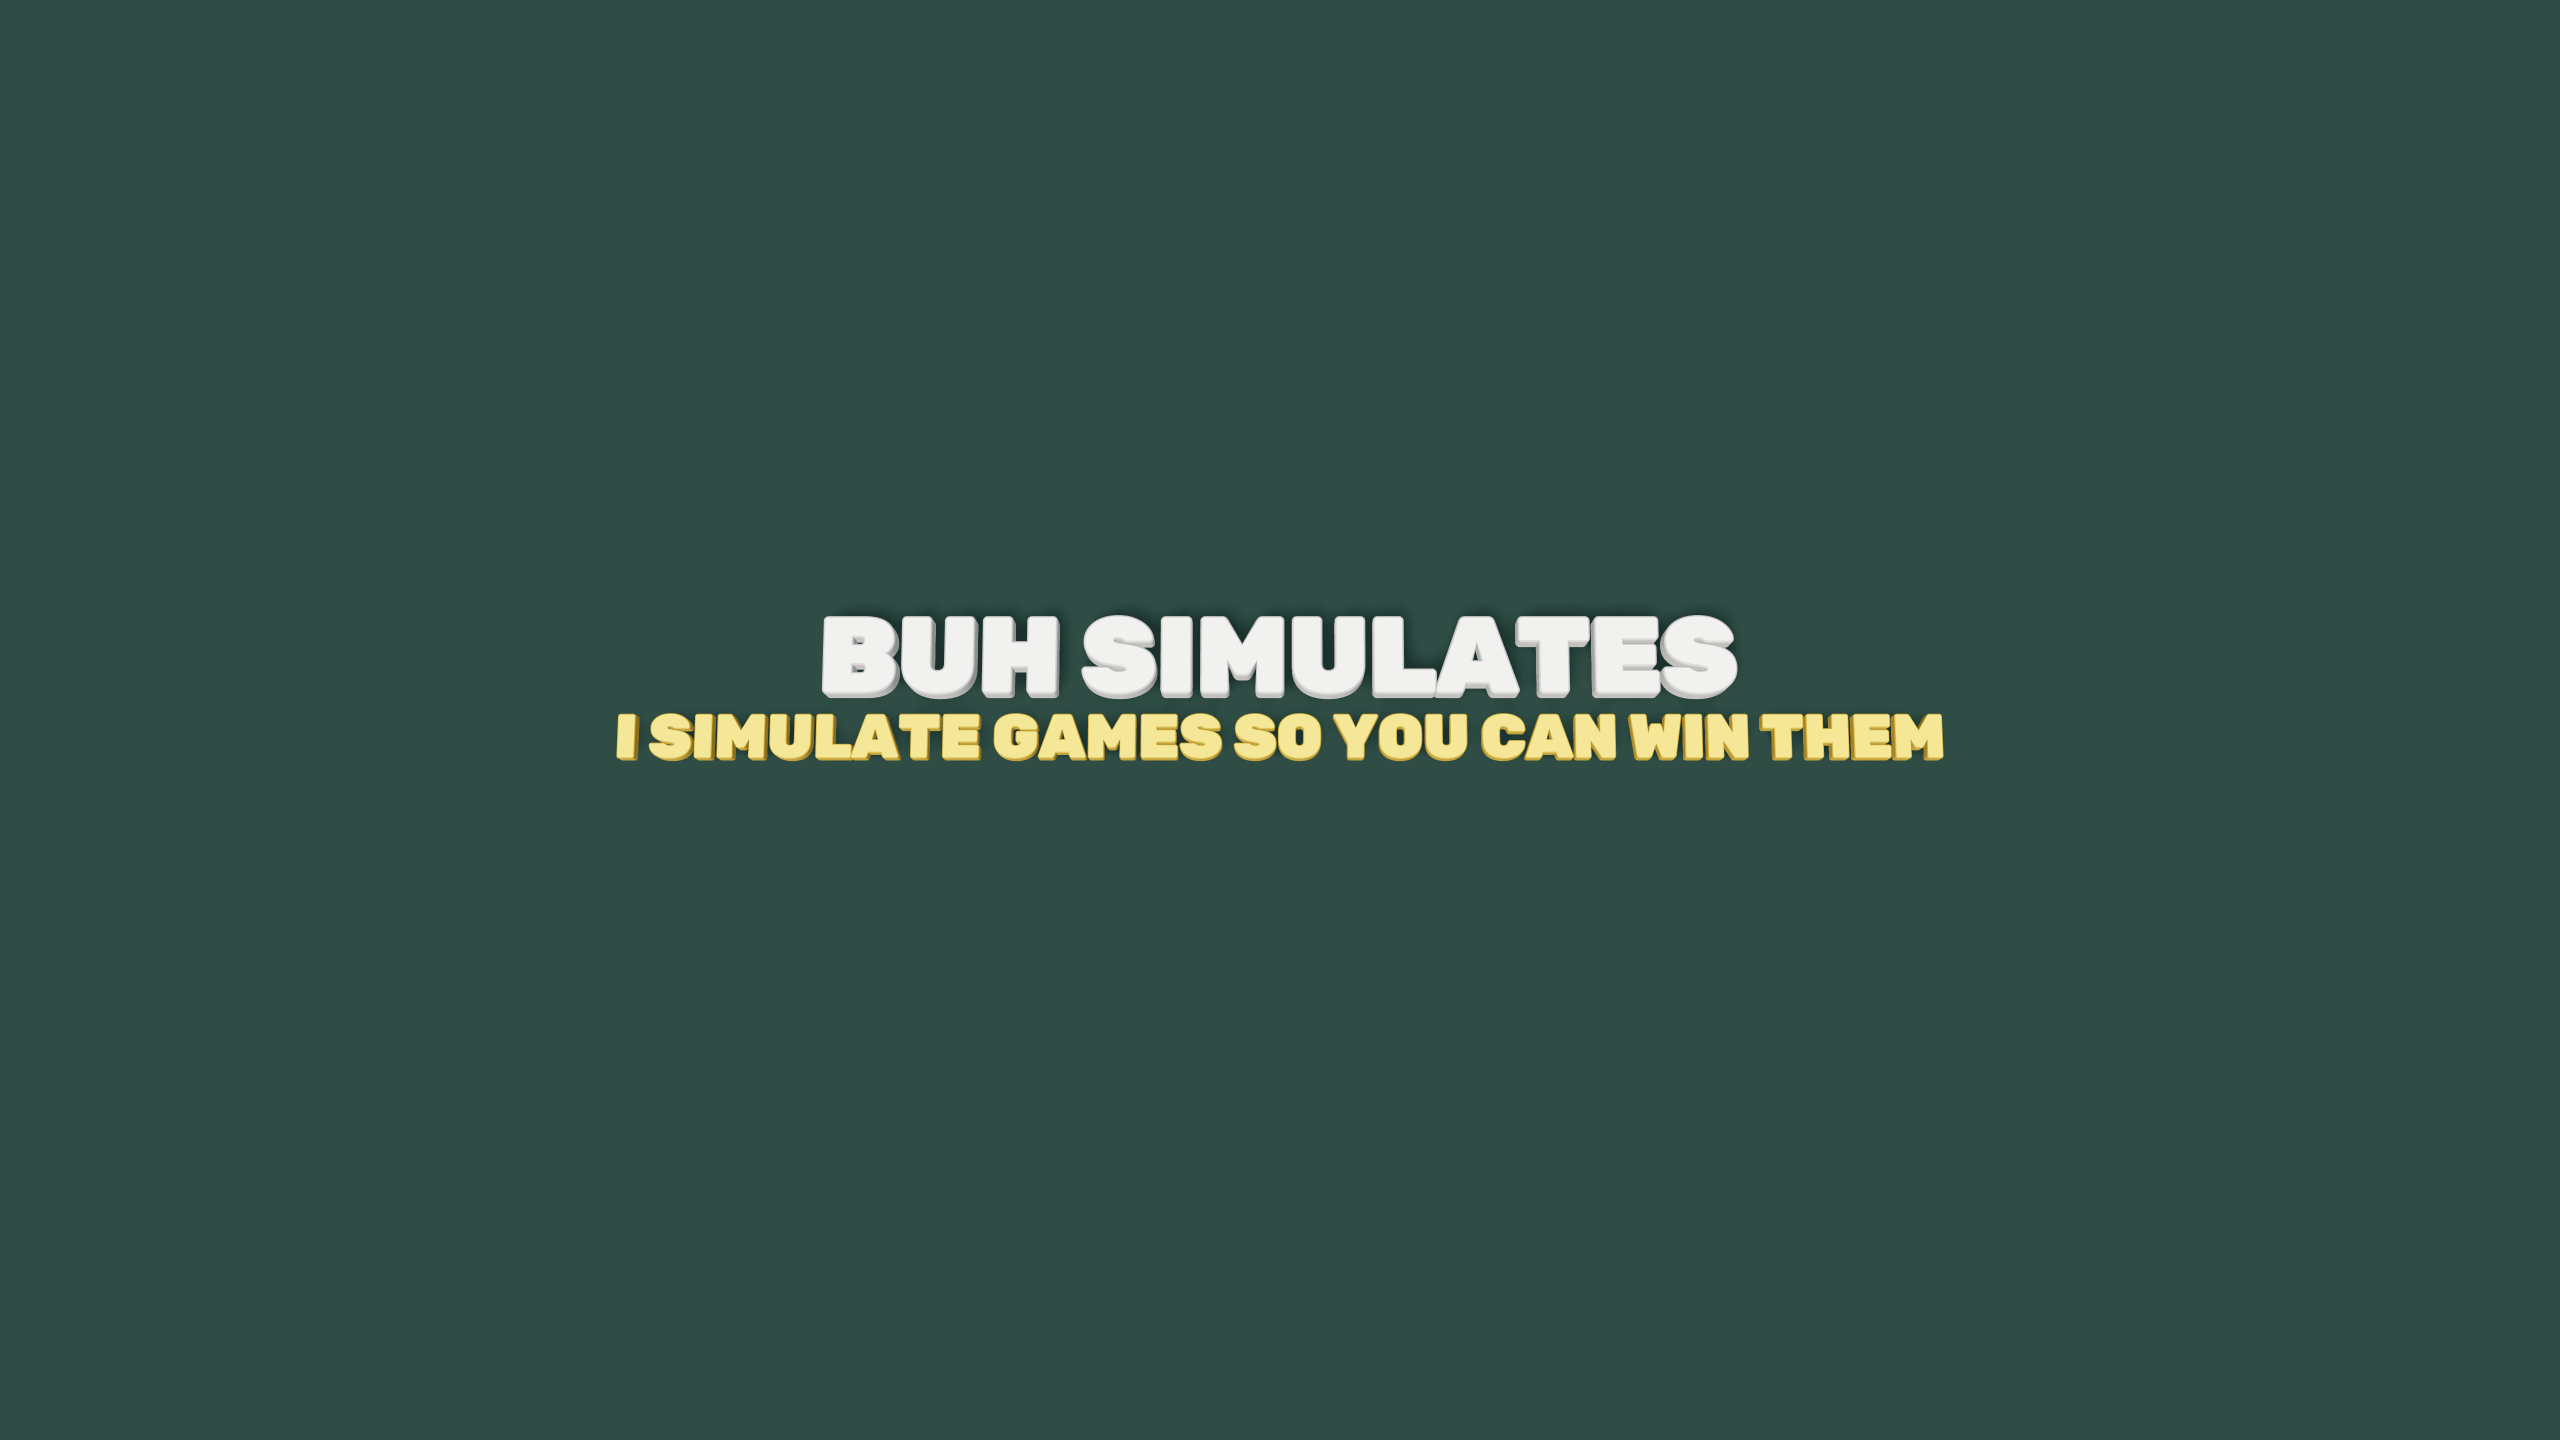
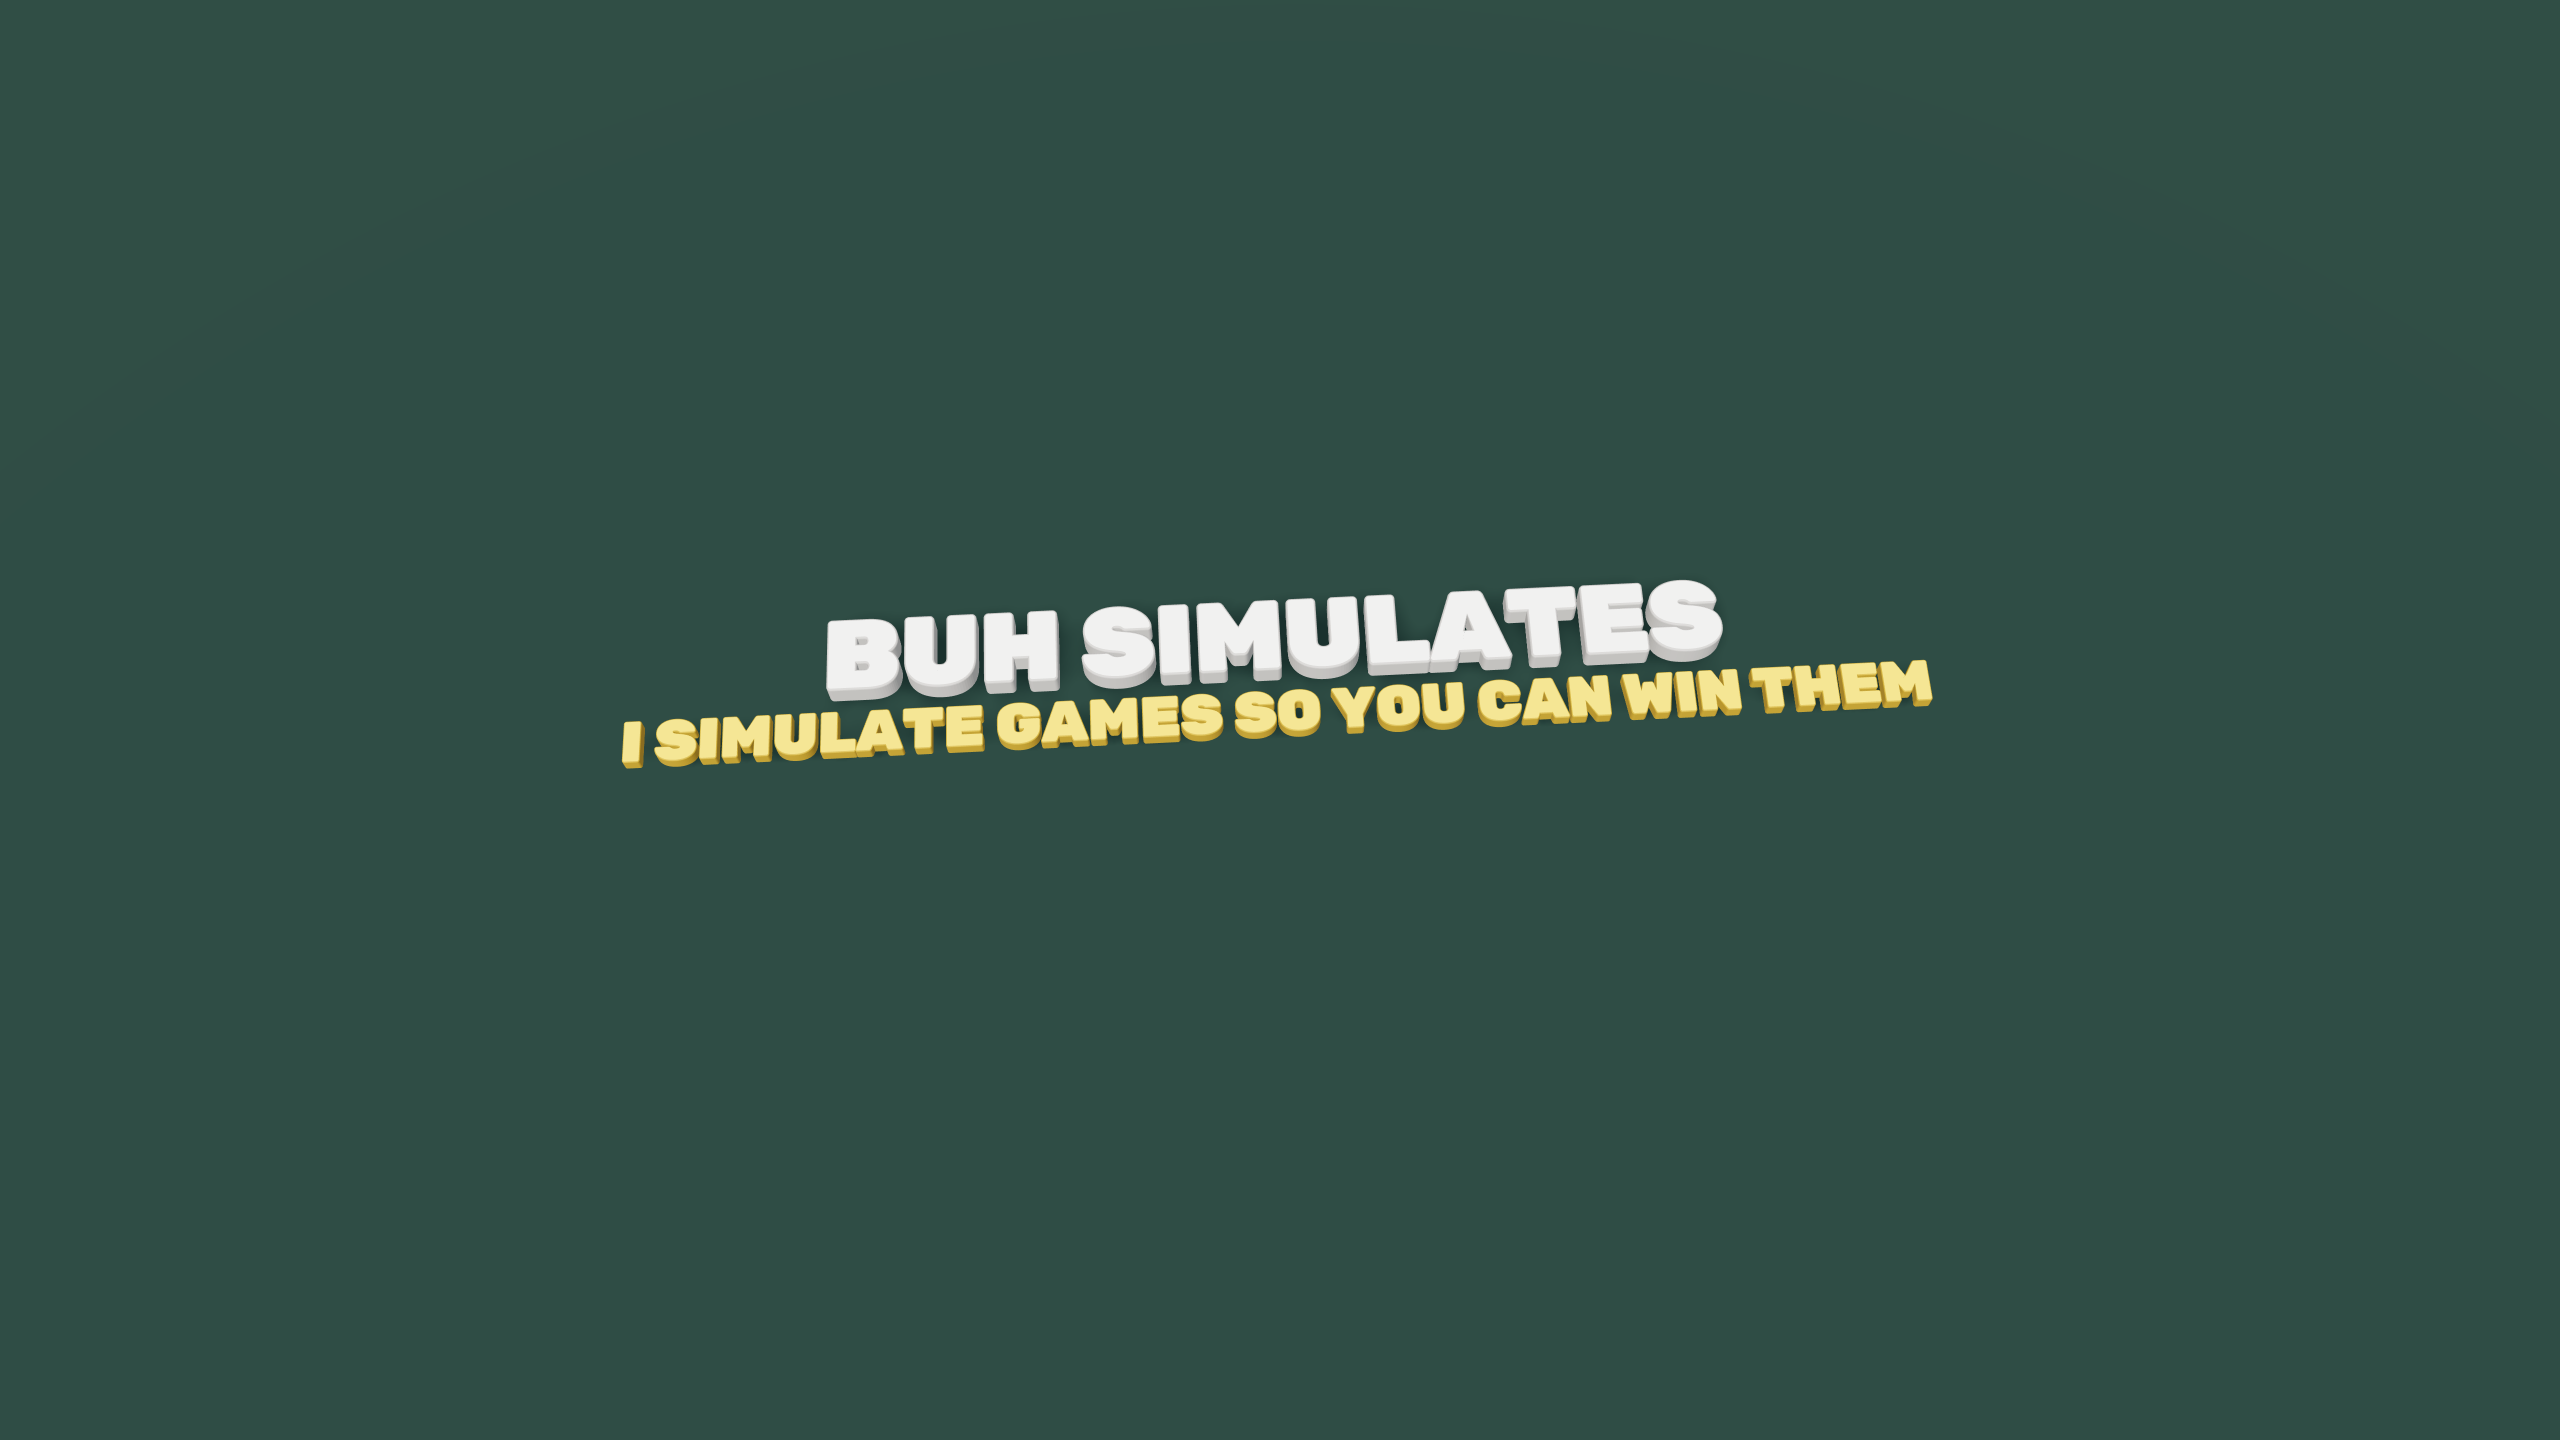
Buh mascot: four cuter style options (mini, bean, pawn, screen) with big low eyes and blush
Claude-Session: https://claude.ai/code/session_019n1tKHhtdH9WqRqey5bGkj

Changed region(s): [[0.2188, 0.4062, 0.7812, 0.5312]]

diff --git a/episodes/exploding-kittens/web/scenes.js b/episodes/exploding-kittens/web/scenes.js
@@ -370,6 +370,120 @@ SCENES.odds = async (stage, spec) => {
   };
 };
 
+// ------------------------------------------------------------------ Buh, the channel character
+// A round pawn-bot with a screen face. makeBuh(stage, {expr}) -> group; expressions: happy | shocked | smug | think
+function faceTexture(expr, cute = false) {
+  const c = document.createElement('canvas'); c.width = 512; c.height = 384;
+  const g = c.getContext('2d');
+  g.fillStyle = '#1d2b3a'; g.beginPath(); g.roundRect(0, 0, 512, 384, 120); g.fill();
+  if (cute) {   // big eyes low on the face, blush, small mouth
+    g.fillStyle = 'rgba(255,122,99,0.55)'; g.beginPath(); g.ellipse(112, 276, 46, 26, 0, 0, Math.PI * 2); g.fill();
+    g.beginPath(); g.ellipse(400, 276, 46, 26, 0, 0, Math.PI * 2); g.fill();
+    g.fillStyle = GN.mustard; g.strokeStyle = GN.mustard; g.lineCap = 'round'; g.lineWidth = 26;
+    const eye = (x) => {
+      if (expr === 'happy') { g.beginPath(); g.arc(x, 236, 46, Math.PI * 1.1, Math.PI * 1.9); g.stroke(); }
+      else if (expr === 'shocked') { g.beginPath(); g.ellipse(x, 212, 50, 64, 0, 0, Math.PI * 2); g.fill(); }
+      else if (expr === 'smug') { g.beginPath(); g.ellipse(x, 224, 50, 24, 0, 0, Math.PI * 2); g.fill(); g.fillStyle = '#1d2b3a'; g.fillRect(x - 60, 180, 120, 42); g.fillStyle = GN.mustard; }
+      else { g.beginPath(); g.ellipse(x, 214, 48, 60, 0, 0, Math.PI * 2); g.fill(); g.fillStyle = '#fff6e6'; g.beginPath(); g.arc(x + 16, 194, 14, 0, Math.PI * 2); g.fill(); g.fillStyle = GN.mustard; }
+    };
+    eye(180); eye(332);
+    g.lineWidth = 16;
+    if (expr === 'shocked') { g.beginPath(); g.ellipse(256, 310, 16, 20, 0, 0, Math.PI * 2); g.stroke(); }
+    else { g.beginPath(); g.arc(256, 292, 26, Math.PI * 0.2, Math.PI * 0.8); g.stroke(); }
+    const t = new THREE.CanvasTexture(c); t.colorSpace = THREE.SRGBColorSpace; t.anisotropy = 4; return t;
+  }
+  g.fillStyle = GN.mustard; g.strokeStyle = GN.mustard; g.lineCap = 'round'; g.lineWidth = 30;
+  const eye = (x) => {
+    if (expr === 'happy') { g.beginPath(); g.arc(x, 200, 52, Math.PI * 1.1, Math.PI * 1.9); g.stroke(); }
+    else if (expr === 'shocked') { g.beginPath(); g.ellipse(x, 178, 46, 62, 0, 0, Math.PI * 2); g.fill(); }
+    else if (expr === 'smug') { g.beginPath(); g.ellipse(x, 192, 50, 26, 0, 0, Math.PI * 2); g.fill(); g.fillStyle = '#1d2b3a'; g.fillRect(x - 60, 150, 120, 40); g.fillStyle = GN.mustard; }
+    else { g.beginPath(); g.ellipse(x, 182, 40, 52, 0, 0, Math.PI * 2); g.fill(); }
+  };
+  eye(176); eye(336);
+  g.lineWidth = 22;
+  if (expr === 'shocked') { g.beginPath(); g.ellipse(256, 300, 26, 30, 0, 0, Math.PI * 2); g.stroke(); }
+  else if (expr === 'smug') { g.beginPath(); g.moveTo(206, 300); g.quadraticCurveTo(286, 324, 316, 282); g.stroke(); }
+  else { g.beginPath(); g.arc(256, 262, 58, Math.PI * 0.2, Math.PI * 0.8); g.stroke(); }
+  const t = new THREE.CanvasTexture(c); t.colorSpace = THREE.SRGBColorSpace; t.anisotropy = 4; return t;
+}
+function makeBuh(stage, { expr = 'happy', cards = false, style = 'classic' } = {}) {
+  if (style !== 'classic') return makeBuhStyle(stage, expr, style);
+  const g = new THREE.Group();
+  const cream = new THREE.MeshPhysicalMaterial({ color: 0xf3ead6, roughness: 0.35, clearcoat: 0.5, clearcoatRoughness: 0.3 });
+  const body = new THREE.Mesh(new THREE.CylinderGeometry(0.62, 0.95, 1.5, 48), cream); body.position.y = 0.75; body.castShadow = true; g.add(body);
+  const base = new THREE.Mesh(new THREE.CylinderGeometry(1.05, 1.1, 0.22, 48), cream); base.position.y = 0.11; base.castShadow = true; g.add(base);
+  const head = new THREE.Mesh(new THREE.SphereGeometry(0.98, 48, 32), cream); head.position.y = 2.25; head.castShadow = true; g.add(head);
+  // screen face: a slightly curved panel on the front of the head
+  const face = new THREE.Mesh(new THREE.SphereGeometry(0.985, 48, 32, Math.PI * 0.5 - 0.62, 1.24, Math.PI * 0.5 - 0.5, 0.92),
+    new THREE.MeshStandardMaterial({ map: faceTexture(expr), roughness: 0.25, emissive: 0xffffff, emissiveMap: faceTexture(expr), emissiveIntensity: 0.35 }));
+  face.position.y = 2.25; g.add(face);   // the segment is already centred on +z (the front)
+  const stalk = new THREE.Mesh(new THREE.CylinderGeometry(0.035, 0.035, 0.45, 12), new THREE.MeshStandardMaterial({ color: 0x8d8273 })); stalk.position.y = 3.42; g.add(stalk);
+  const bulb = new THREE.Mesh(new THREE.SphereGeometry(0.13, 24, 16), new THREE.MeshStandardMaterial({ color: GN.coral, emissive: GN.coral, emissiveIntensity: 0.4 })); bulb.position.y = 3.68; g.add(bulb);
+  // two little nub arms (the right one holds the cards)
+  for (const s of [-1, 1]) {
+    const arm = new THREE.Mesh(new THREE.CapsuleGeometry(0.16, 0.55, 8, 16), cream);
+    arm.position.set(s * 0.88, 1.15, 0.25); arm.rotation.z = s * 0.9; arm.rotation.x = -0.5; arm.castShadow = true; g.add(arm);
+  }
+  if (cards) {   // a held fan of cards, faces out
+    [8, 1, 6, 3, 0].forEach((tp, i) => {
+      const c = makeCard(stage, tp, true); const off = i - 2;
+      c.scale.setScalar(0.62); c.position.set(1.12 + off * 0.2, 1.45 + (2 - Math.abs(off)) * 0.05, 0.62 + i * 0.012);
+      c.rotation.set(Math.PI / 2, 0, -off * 0.2 - 0.35); g.add(c);
+    });
+  }
+  stage.scene.add(g);
+  return g;
+}
+// cute variants: big head, small body, big low eyes, blush, stubby limbs
+function makeBuhStyle(stage, expr, style) {
+  const g = new THREE.Group();
+  const cream = new THREE.MeshPhysicalMaterial({ color: 0xf3ead6, roughness: 0.35, clearcoat: 0.5, clearcoatRoughness: 0.3 });
+  const add = (geo, y, x = 0, z = 0, mat = cream) => { const m = new THREE.Mesh(geo, mat); m.position.set(x, y, z); m.castShadow = true; g.add(m); return m; };
+  const faceMat = () => new THREE.MeshStandardMaterial({ map: faceTexture(expr, true), roughness: 0.25, emissive: 0xffffff, emissiveMap: faceTexture(expr, true), emissiveIntensity: 0.35 });
+  const sphereFace = (r, y, w = 1.3, h = 1.0) => { const f = new THREE.Mesh(new THREE.SphereGeometry(r * 1.004, 48, 32, Math.PI / 2 - w / 2, w, Math.PI / 2 - h / 2 - 0.05, h), faceMat()); f.position.y = y; g.add(f); };
+  let top = 0;
+  if (style === 'mini') {
+    add(new THREE.CylinderGeometry(0.42, 0.55, 0.7, 40), 0.35);
+    add(new THREE.SphereGeometry(1.0, 48, 32), 1.62); sphereFace(1.0, 1.62);
+    for (const s of [-1, 1]) { const a = add(new THREE.CapsuleGeometry(0.11, 0.22, 8, 16), 0.5, s * 0.58, 0.05); a.rotation.z = s * 0.7; }
+    top = 2.62;
+  } else if (style === 'bean') {
+    const b = add(new THREE.SphereGeometry(1.0, 48, 32), 1.25); b.scale.set(1, 1.22, 0.95); sphereFace(1.0, 1.42, 1.25, 0.8);
+    g.children[g.children.length - 1].scale.set(1, 1.22, 0.95); g.children[g.children.length - 1].position.y = 1.25;
+    for (const s of [-1, 1]) { add(new THREE.SphereGeometry(0.22, 24, 16), 0.12, s * 0.42, 0.18).scale.set(1.2, 0.6, 1.5);
+      const a = add(new THREE.CapsuleGeometry(0.1, 0.2, 8, 16), 1.0, s * 0.98, 0.05); a.rotation.z = s * 0.5; }
+    top = 2.47;
+  } else if (style === 'pawn') {
+    add(new THREE.CylinderGeometry(0.62, 0.7, 0.18, 40), 0.09);
+    add(new THREE.CylinderGeometry(0.22, 0.5, 0.95, 40), 0.65);
+    add(new THREE.TorusGeometry(0.3, 0.07, 16, 40), 1.14).rotation.x = Math.PI / 2;
+    add(new THREE.SphereGeometry(0.78, 48, 32), 1.9); sphereFace(0.78, 1.9, 1.35, 1.0);
+    top = 2.68;
+  } else if (style === 'tv') {
+    add(new THREE.CylinderGeometry(0.4, 0.5, 0.75, 40), 0.38);
+    const head = add(new RoundedBoxGeometry(1.9, 1.45, 1.3, 6, 0.32), 1.55);
+    const f = new THREE.Mesh(new THREE.PlaneGeometry(1.5, 1.08), faceMat()); f.position.set(0, 1.55, 0.656); g.add(f);
+    for (const s of [-1, 1]) { const a = add(new THREE.CapsuleGeometry(0.1, 0.22, 8, 16), 0.5, s * 0.55, 0.05); a.rotation.z = s * 0.7; }
+    top = 2.28;
+  }
+  add(new THREE.CylinderGeometry(0.03, 0.03, 0.4, 12), top + 0.18, 0, 0, new THREE.MeshStandardMaterial({ color: 0x8d8273 }));
+  add(new THREE.SphereGeometry(0.12, 24, 16), top + 0.42, 0, 0, new THREE.MeshStandardMaterial({ color: GN.coral, emissive: GN.coral, emissiveIntensity: 0.4 }));
+  stage.scene.add(g);
+  return g;
+}
+
+SCENES.mascot = async (stage, spec) => {
+  buildRoom(stage);
+  const p = spec.params;
+  const buh = makeBuh(stage, { expr: p.expr || 'happy', cards: !!p.cards, style: p.style || 'classic' });
+  buh.position.set(...(p.at || [0, 0, 0])); buh.rotation.y = p.turn || 0;
+  (p.texts || []).forEach((tx) => stage.text({ text: tx.text, x: tx.x, y: tx.y, size: tx.size, weight: 900, font: 'rubik', align: tx.align || 'left', color: tx.color === 'MUSTARD' ? GN.mustard : '#fff6e6', at: -1, case: 'none' }));
+  return (t) => {
+    stage.cameraAt(t, { pos: [p.cam || [0, 3.2, 8.5]], look: [p.look || [0, 1.9, 0]], fov: p.fov || 32 });
+    stage.clear2d();
+  };
+};
+
 SCENES.title = async (stage, spec) => {
   buildRoom(stage);
   const p = spec.params;

diff --git a/branding/make_branding.py b/branding/make_branding.py
@@ -22,5 +22,27 @@ def shot(name, W, H, lines, size, scale=1.0):
     print("wrote", OUT / f"{name}.png")
 
 
-shot("avatar", 800, 800, [("BUH", "MUSTARD")], 2.2)
-shot("banner", 2560, 1440, [("BUH SIMULATES", None, 1.75), ("I simulate games so you can win them", "MUSTARD")], 0.311, scale=1.0)
+if "--v2" not in sys.argv:
+    shot("avatar", 800, 800, [("BUH", "MUSTARD")], 2.2)
+    shot("banner", 2560, 1440, [("BUH SIMULATES", None, 1.75), ("I simulate games so you can win them", "MUSTARD")], 0.311, scale=1.0)
+
+
+# ---- v2: Buh, the channel character (same 3D look as the videos) ----
+MASCOT = {"module": "/episodes/exploding-kittens/web/scenes.js", "type": "mascot", "fps": 30, "duration": 1.0,
+          "n_frames": 31, "cues": {}, "captions": [], "theme": "custom", "font": "rubik",
+          "look": "clean-sage", "quality": "high", "ssaa": 2}
+
+
+def mascot(name, W, H, params, scale=1.0):
+    render3d.render(dict(MASCOT, W=W, H=H, params=params), OUT / f"{name}.png", scale=scale, png_frame=5)
+    print("wrote", OUT / f"{name}.png")
+
+
+if __name__ == "__main__" and "--v2" in sys.argv:
+    mascot("avatar-buh", 800, 800, {"expr": "happy", "turn": 0.0, "cam": [0, 2.6, 6.4], "look": [0, 2.45, 0], "fov": 34})
+    # banner: Buh on the right of the 1546x423 safe area, name + tagline on the left (2560x1440 canvas)
+    mascot("banner-buh", 2560, 1440, {"expr": "smug", "turn": -0.35, "at": [3.3, 0, 0], "cam": [0, 2.0, 18.5], "look": [0, 1.9, 0], "fov": 30,
+                                     "texts": [{"text": "BUH SIMULATES", "x": 560, "y": 610, "size": 112},
+                                               {"text": "I simulate games so you can win.", "x": 566, "y": 760, "size": 56, "color": "MUSTARD"}]})
+    for e in ("happy", "shocked", "smug"):
+        mascot(f"buh-{e}", 1200, 1200, {"expr": e, "turn": -0.3, "cam": [0, 2.7, 9.4], "look": [0.3, 1.85, 0]})
